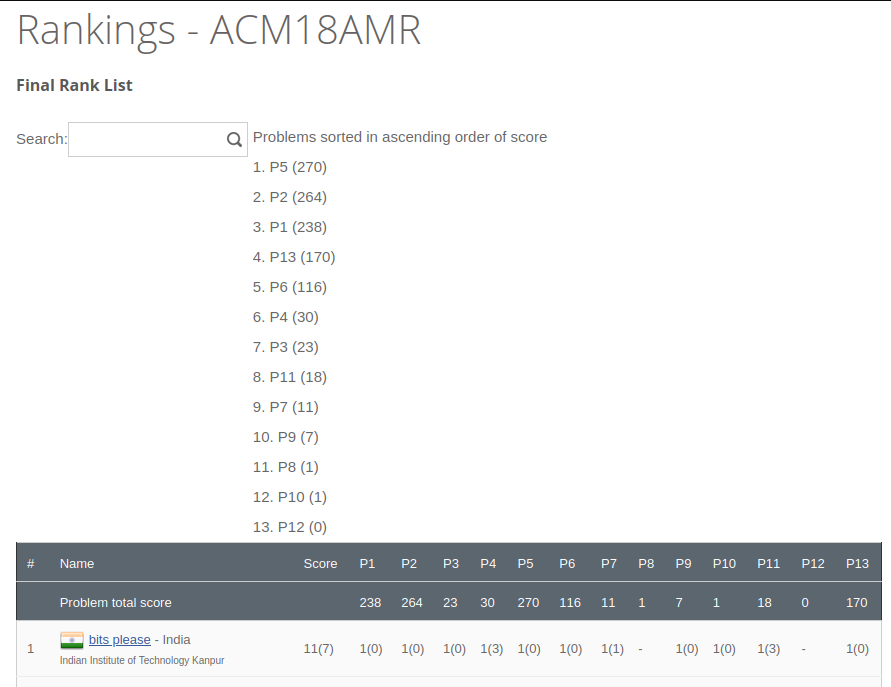
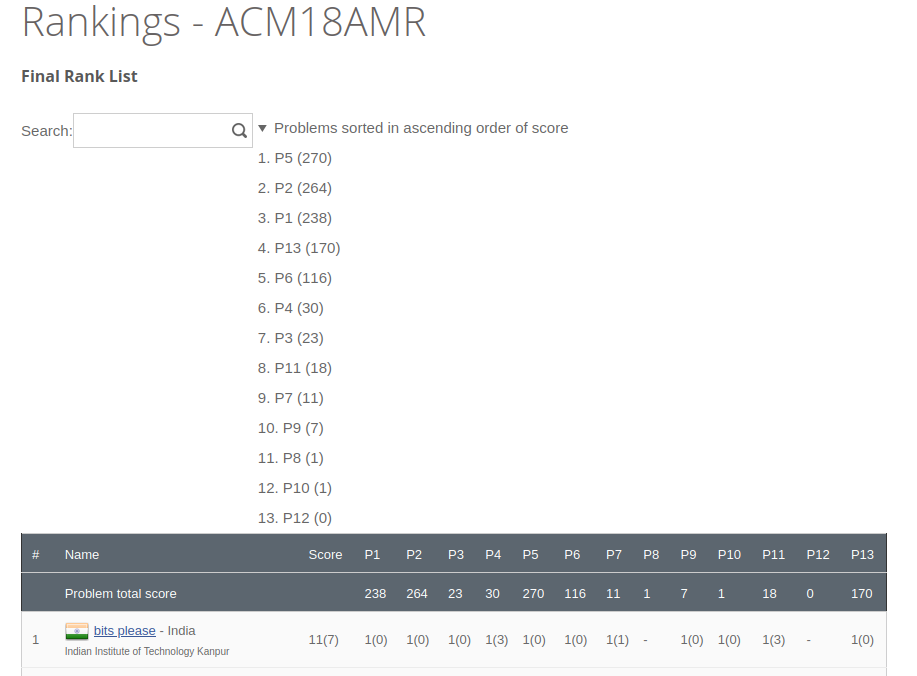
Make desc collapsible + minor changes Thanks Tanish!

diff --git a/table-score/score.user.js b/table-score/score.user.js
@@ -50,15 +50,16 @@ function getMultipleTHs(texts) {
 }
 
 function getStats(scores) {
-    let container = document.createElement("div");
+    let container = document.createElement("details");
     container.style.float = "left";
 
     let result = scores
         .map((val, idx) => [val, idx])
         .sort(([a], [b]) => b - a)
         .map(([val, idx], sortedIdx) => `${sortedIdx + 1}. P${idx + 1} (${val})`)
-        .join("\n");
-    container.innerText = `Problems sorted in ascending order of score\n${result}`;
+        .join("<br>");
+    container.innerHTML = `<summary>Problems sorted in ascending order of score</summary>${result}`;
+    container.style.cursor = "pointer";
     return container;
 }
 

diff --git a/table-score/README.md b/table-score/README.md
@@ -1,12 +1,14 @@
 Adds a total score for each problem at the top.
 
+## Before
+
+![](./before.png)
+
 ## After
 
 ![](./after.png)
 
-## Before
-
-![](./before.png)
+(the problems sorted section is by default collapsed)
 
 ## How to cross reference problem name?
 
